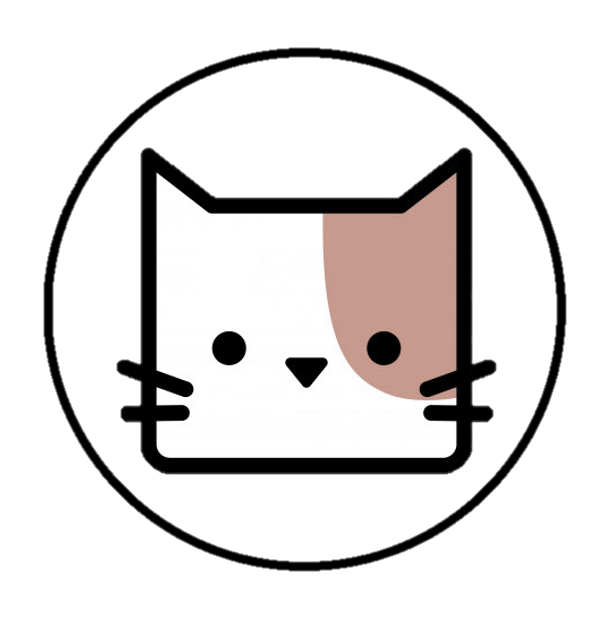
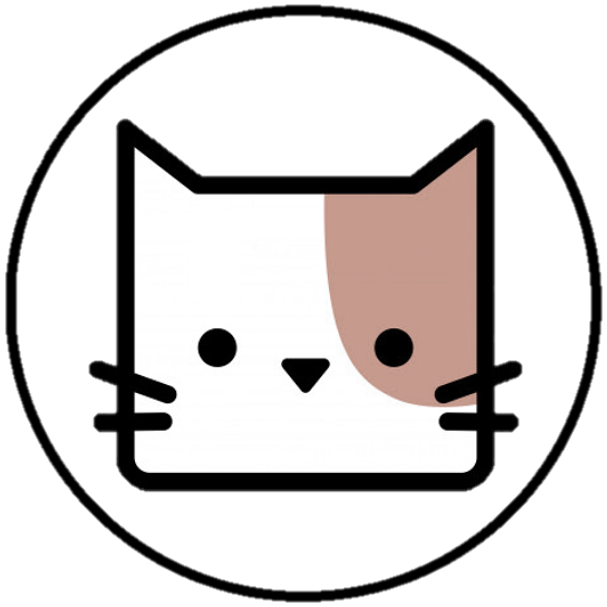
maxing out rendering settings

Changed region(s): [[0.0, 0.0, 1.0, 1.0], [0.5338, 0.4152, 0.5634, 0.4448]]

diff --git a/src/main/java/client/menu/MenuPanel.java b/src/main/java/client/menu/MenuPanel.java
@@ -60,8 +60,8 @@ public class MenuPanel extends GamePanel {
         this.cat = new BongoCat();
         this.cat.configureSprites();
         this.background = Utils.loadScaledImage("resources/menu/yellow.png");
-        this.catIcon = Utils.loadScaledImage("resources/menu/cathead.png",Utils.scale(80),Utils.scale(80));
         this.title = getTitleSprite();
+        this.catIcon = Utils.loadScaledImage("resources/menu/cathead.png", Utils.scale(100),Utils.scale(100));
 
         //create the drawer panels
         this.loginPanel = new LoginPanel(window, this);
@@ -174,15 +174,15 @@ public class MenuPanel extends GamePanel {
         g2D.drawImage(background, 0, 0, this);
         g2D.drawImage(title, 0, 0, null);
 
+        if (window.getUsername() != "") {
+            g2D.drawString(window.getUsername(), Utils.scale(100), Utils.scale(1200));
+        }
+        g2D.drawImage(catIcon, Utils.scale(30), Utils.scale(1200), null);
+
         cat.draw(g2D);
         for (CircleButton button : buttons) {
             button.draw(g2D);
         }
-
-        if (window.getUsername() != "") {
-            g2D.drawString(window.getUsername(), Utils.scale(100), Utils.scale(1200));
-        }
-        g2D.drawImage(catIcon, Utils.scale(50), Utils.scale(1200), null);
     }
 
     // Loading sprites methods -----------------------------------------------------------------------

diff --git a/src/main/java/client/menu/QueuePanel.java b/src/main/java/client/menu/QueuePanel.java
@@ -70,6 +70,9 @@ public class QueuePanel extends DropDownPanel {
     void pullDown() {
         if (lock.compareAndSet(false, true)) {
             clock.configureSprites();
+            leftPanel.configureSprites();
+            rightPanel.configureSprites();
+
             ThreadPool.execute(this::animate);
             super.pullDown();
         }
@@ -78,8 +81,6 @@ public class QueuePanel extends DropDownPanel {
     void matchMade(String user1, String user2) {
         leftPanel.setUsername(user1);
         rightPanel.setUsername(user2);
-        leftPanel.configureSprites();
-        rightPanel.configureSprites();
         matchMade.set(true);
     }
 

diff --git a/src/main/java/client/utilities/Utils.java b/src/main/java/client/utilities/Utils.java
@@ -13,6 +13,7 @@ import java.awt.Transparency;
 import java.awt.image.BufferedImage;
 import java.io.File;
 import java.io.IOException;
+import java.util.Set;
 
 /**
  * Convenience class containing methods for graphical scaling, rounding, loading resources, etc.
@@ -167,6 +168,7 @@ public class Utils {
 
         BufferedImage target = createCompatibleImage(image.getWidth(), image.getHeight());
         Graphics2D g2d = target.createGraphics();
+        g2d.setRenderingHints(Settings.QUALITY_RENDER_SETTINGS);
         g2d.drawImage(image, 0, 0, null);
         g2d.dispose();
         return target;
